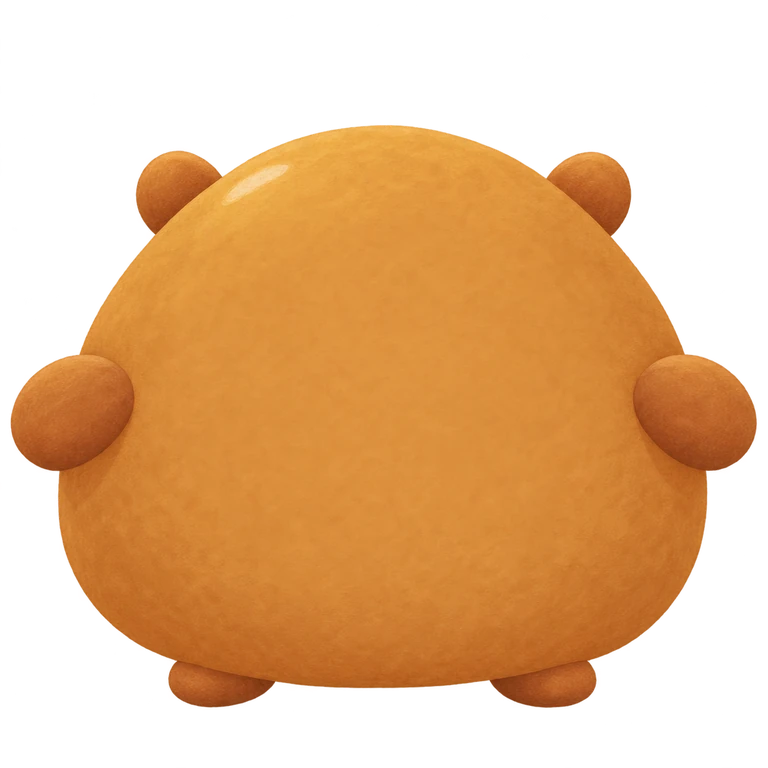
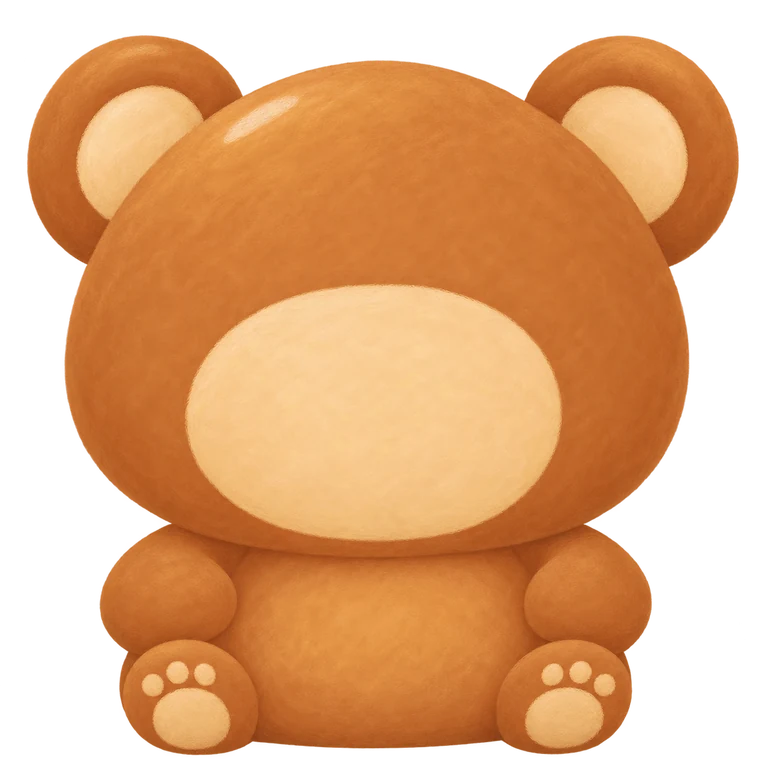
Make feeding direct and cycle three distinct friends in order

diff --git a/src/mogumogu-tomodachi/model.ts b/src/mogumogu-tomodachi/model.ts
@@ -1,6 +1,6 @@
 export type Food = 'strawberry' | 'banana' | 'carrot';
 export const foods: Food[] = ['strawberry', 'banana', 'carrot'];
-export const friends = ['monster', 'ghost', 'bear'] as const;
+export const friends = ['monster', 'bear', 'ghost'] as const;
 export type Phase =
   'idle' | 'offering' | 'chewing' | 'swallowing' | 'happy' | 'changing';
 export const durations = {
@@ -12,18 +12,15 @@ export const durations = {
 };
 const phases: Phase[] = ['offering', 'chewing', 'swallowing', 'happy', 'idle'];
 
-/** One meal and at most one replaceable next bite. Time advances only while visible. */
+/** One meal at a time. Unswallowed food is restored after interruption. */
 export class Friend {
-  private random: () => number;
   constructor(random: () => number = Math.random) {
-    this.random = random;
-    this.character = Math.floor(this.random() * friends.length);
+    this.character = Math.floor(random() * friends.length);
   }
   character: number;
   available = new Set<Food>(foods);
   phase: Phase = 'idle';
   food: Food = 'strawberry';
-  next: Food | null = null;
   elapsed = 0;
   reaction = 0;
   meals = 0;
@@ -34,22 +31,14 @@ export class Friend {
     this.touchRemaining = 520;
   }
   offer(food: Food) {
-    if (!this.available.has(food) || this.phase === 'changing') return;
-    if (this.phase !== 'idle' && this.food === food) return;
-    if (this.phase !== 'idle') {
-      this.next = food;
-      return;
-    }
+    if (!this.available.has(food) || this.phase !== 'idle') return;
     this.food = food;
     this.phase = 'offering';
     this.elapsed = 0;
   }
   private changeFriend() {
-    this.character =
-      (this.character + 1 + Math.floor(this.random() * (friends.length - 1))) %
-      friends.length;
+    this.character = (this.character + 1) % friends.length;
     this.available = new Set(foods);
-    this.next = null;
     this.phase = 'idle';
     this.elapsed = 0;
   }
@@ -68,19 +57,13 @@ export class Friend {
     }
     this.phase = phases[phases.indexOf(this.phase) + 1]!;
     if (this.phase === 'happy') {
-      // Commit a bite only after swallowing. A cancelled offering is still on the table.
+      // Commit a bite only after swallowing. An interrupted bite returns to the table until this point.
       this.available.delete(this.food);
       this.reaction = this.meals++ % 2;
     }
     if (this.phase === 'idle' && this.available.size === 0) {
       this.phase = 'changing';
-      this.next = null;
       return;
-    }
-    if (this.phase === 'idle' && this.next) {
-      const food = this.next;
-      this.next = null;
-      this.offer(food);
     }
   }
   reset() {
@@ -88,7 +71,6 @@ export class Friend {
     if (this.available.size === 0) this.changeFriend();
     this.touchRemaining = 0;
     this.phase = 'idle';
-    this.next = null;
     this.elapsed = 0;
   }
 }

diff --git a/src/mogumogu-tomodachi/app.ts b/src/mogumogu-tomodachi/app.ts
@@ -125,6 +125,9 @@ function render() {
     const food = button.dataset.food as Food;
     const eaten = !friend.available.has(food);
     button.dataset.eaten = String(eaten);
+    button.dataset.away = String(
+      eaten || (friend.phase !== 'idle' && friend.food === food),
+    );
     // Keep the focused native button in the tab order when its food disappears.
     button.setAttribute(
       'aria-disabled',
@@ -139,7 +142,6 @@ function render() {
       'aria-label',
       eaten ? `${names[food]}は たべたよ` : `${names[food]}を あげる`,
     );
-    button.classList.toggle('next', button.dataset.food === friend.next);
   }
   const phaseKey = `${friend.phase}:${friend.food}:${friend.character}`;
   if (phaseKey !== previous) {
@@ -161,6 +163,7 @@ function render() {
   const p = Math.min(1, friend.elapsed / 650);
   const source = buttons
     .find((button) => button.dataset.food === friend.food)!
+    .querySelector('img')!
     .getBoundingClientRect();
   const target = artwork.getBoundingClientRect();
   const start = {
@@ -174,7 +177,7 @@ function render() {
   // Food crosses the lip at 72%; thereafter it is rendered INSIDE the mouth clip.
   const travel = Math.min(1, p / 0.72);
   const eased = 1 - Math.pow(1 - travel, 2);
-  const size = target.width * 0.176;
+  const size = source.width + (target.width * 0.176 - source.width) * eased;
   flying.style.width = `${size}px`;
   flying.style.left = `${start.x + (end.x - start.x) * eased}px`;
   flying.style.top = `${start.y + (end.y - start.y) * eased - (reduced.matches ? 0 : Math.sin(travel * Math.PI) * 65)}px`;
@@ -218,17 +221,20 @@ for (const button of buttons) {
   button.querySelector('img')!.src = assets[food];
   button.addEventListener('click', () => {
     if (button.getAttribute('aria-disabled') === 'true') return;
-    button.getAnimations().forEach((animation) => animation.cancel());
-    button.animate(
-      reduced.matches
-        ? [{ opacity: 0.65 }, { opacity: 1 }]
-        : [
-            { transform: 'scale(1)' },
-            { transform: 'translateY(-12px) scale(1.14)' },
-            { transform: 'scale(1)' },
-          ],
-      { duration: 300 },
-    );
+    if (friend.phase !== 'idle') {
+      button.getAnimations().forEach((animation) => animation.cancel());
+      button.animate(
+        reduced.matches
+          ? [{ opacity: 0.65 }, { opacity: 1 }]
+          : [
+              { transform: 'scale(1)' },
+              { transform: 'translateY(-12px) scale(1.14)' },
+              { transform: 'scale(1)' },
+            ],
+        { duration: 300 },
+      );
+      return;
+    }
     friend.offer(food);
     render();
     if (!frame) frame = requestAnimationFrame(tick);

diff --git a/src/mogumogu-tomodachi/style.css b/src/mogumogu-tomodachi/style.css
@@ -171,8 +171,8 @@ body {
 }
 #foods button {
   position: relative;
-  width: clamp(80px, 25vw, 148px);
-  height: clamp(80px, 25vw, 148px);
+  width: clamp(80px, min(25vw, 24dvh), 240px);
+  height: clamp(80px, min(25vw, 24dvh), 240px);
   border: 0;
   border-radius: 50%;
   background: transparent;
@@ -186,17 +186,6 @@ body {
   height: 100%;
   object-fit: contain;
   pointer-events: none;
-}
-#foods .next {
-  filter: drop-shadow(0 0 8px #f29932);
-}
-#foods .next::after {
-  content: '♥';
-  color: #df6550;
-  position: absolute;
-  right: -3px;
-  top: -12px;
-  font-size: 28px;
 }
 button:focus-visible,
 a:focus-visible {
@@ -287,7 +276,7 @@ a:focus-visible {
   height: 100%;
   pointer-events: none;
 }
-#foods [data-eaten='true'] img {
+#foods [data-away='true'] img {
   visibility: hidden;
 }
 #foods [aria-disabled='true'] {
@@ -330,4 +319,19 @@ a:focus-visible {
 }
 #friend[data-art-state='ready'] .friend-message {
   display: none;
+}
+
+.bear-nose {
+  display: none;
+}
+#friend[data-character='bear'] .bear-nose {
+  display: block;
+}
+#friend[data-character='bear'] .eyes-open,
+#friend[data-character='bear'] .eyes-happy {
+  transform: translateY(-40px);
+}
+
+#friend[data-character='bear'] .friend-art {
+  inset: 0;
 }

diff --git a/src/mogumogu-tomodachi/index.html b/src/mogumogu-tomodachi/index.html
@@ -110,6 +110,11 @@
               ry="18"
               fill="#ff9b9c"
             />
+            <path
+              class="bear-nose"
+              d="M238 214Q250 209 262 214Q265 218 250 226Q235 218 238 214"
+              fill="#57382b"
+            />
             <g class="mouth-open">
               <ellipse cx="250" cy="290" rx="83" ry="62" fill="#713b36" />
               <g clip-path="url(#mouth-clip)">

diff --git a/src/mogumogu-tomodachi/README.md b/src/mogumogu-tomodachi/README.md
@@ -3,10 +3,10 @@
 怪獣・おばけ・くまと遊びます。いちご・バナナ・にんじんをタップすると、おともだちの口へ飛びます。口を閉じて頬を交互に膨らませ、飲み込んでから、食べ物ごとの笑顔と動きを返します。空腹・好き嫌い・得点・悲しい待機はありません。
 
 - 全画面の遊びと共通ホームボタン。食べ物は56px以上のネイティブボタンで、キーボードでも選べます。
-- おともだちの広い本体をタップ（Enter・Spaceでも操作）すると、目を細めて短く微笑み、待機中は身体がやわらかく縮む・ぴょこっと跳ねる・左右に揺れる3種類の反応を順番に返します。食事中は目元だけで応じ、食事と次のひとくちは続きます。反応は最新の1回だけで、食べ物はすぐ受け付けます。
-- 連打には食べ物の弾みをすぐ返し、次のひとくちは最新の1個だけ保持します。食べ物の周りの光とハートが次の選択を示します。予約の変更では食べ物は消費しません。
-- 食べ物は飲み込み終わると台からなくなります。3種類を食べ終えると、満足したあと次のおともだちへ交代し、食べ物を補充します。最初の友達はランダムで、交代時には直前の友達を選びません。
-- 非表示・フォーカス喪失・離脱・リサイズでは途中の食事と次の選択を破棄し、笑顔に戻ります。飲み込み前の食べ物は台に残し、飲み込み済みの食べ物は戻しません。最後のひとくちの満足・交代中の中断では次の友達と補充を確定します。待機中はRAFを停止します。
+- おともだちの広い本体をタップ（Enter・Spaceでも操作）すると、目を細めて短く微笑み、待機中は身体がやわらかく縮む・ぴょこっと跳ねる・左右に揺れる3種類の反応を順番に返します。食事中は目元だけで応じ、食事は続きます。反応は最新の1回だけです。
+- 食事中に別の食べ物をタップすると弾む反応だけを返します。予約や自動給餌はありません。
+- 選んだ食べ物はその瞬間に台から離れて口へ飛び、飲み込み終わると消費を確定します。3種類を食べ終えると、満足したあと次のおともだちへ交代し、食べ物を補充します。最初の友達はランダムで、以後は かいじゅう→くま→おばけ→かいじゅう の固定順です。
+- 非表示・フォーカス喪失・離脱・リサイズでは途中の食事を中断し、笑顔に戻ります。飲み込み前の食べ物は台に戻し、飲み込み済みの食べ物は戻しません。最後のひとくちの満足・交代中の中断では次の友達と補充を確定します。待機中はRAFを停止します。
 - 3体の本体を先読みしてデコードし、準備済みの画像要素・顔・ラベルを同時に表示します。初回・交代の準備中は顔だけを表示せず、食べ物は消費しません。画像が失敗した場合は読み込めた友達を使い、すべて失敗した場合は本体ボタンの「もういちど あう」で再試行できます。
 - 身体画像・食べ物画像と顔のSVGを分離。口に入った食べ物は口形状でクリップし、頬・目・口を別々に制御します。顔の基準座標は500×500です。
 - 動きを減らす設定では飛行の弧や身体の跳躍を省き、口と表情による反応を残します。音声や設定UIはありません。

diff --git a/source-assets/mogumogu-tomodachi/bear-v3/README.md b/source-assets/mogumogu-tomodachi/bear-v3/README.md
@@ -1,0 +1,23 @@
+# もぐもぐともだち｜クマ素材 v3
+
+2026-11-09。ユーザーの「茶色い恐竜ではなく、もっとクマらしく」という依頼に基づく画像生成素材。旧版の色調と柔らかい絵本調の質感を参考に、大きな丸耳と内耳、頭と胴の区別、丸い手足と肉球、淡色の口周りでクマとして読める輪郭に変更した。
+
+## ファイル
+- source/bear-body.png: 生成原本、1254×1254 RGBA。
+- web/bear-body.webp: 配信用768×768 RGBA、62,698 bytes。PNG原本から縮小・エンコードのみ。透明背景を保持。
+- preview.png: 500px / 160px の見本。顔は意図的に描かれていない。
+- validation.json: 再読込とアルファ検査。
+
+## 組込み
+画像には目・鼻・口・眉を描かず、表情アニメーションは既存SVGで重ねる。
+このクマは明確な頭部とマズルがあるため、500×500の既存キャラ座標系ではクマのみ目中心を (200,165), (300,165) に置くと口周りの上に収まる。口中心 (250,280) は維持可能。鼻はマズル上部の (250,222) 付近に小さな暗褐色の丸みある三角形/楕円を追加すると、さらに熊らしく読める。鼻は口の最大変形に干渉しない大きさとし、実装担当が表情全種類で確認すること。
+これは配置提案であり、実画面の顔・口アニメ確認は組込み側で実施する。画像本体の下部は机で隠れても、大きな丸耳と淡い口周りが残り熊と読める設計。足の肉球のために机位置を変更する必要はない。
+
+## 検査
+768px WebPを再読込しRGBA・alpha 0〜255を確認。500px/160pxの画像を視覚確認し、丸耳と内耳、マズル、短い腕が保たれ、旧版よりクマらしく見える。実機・ブラウザ組込み確認は本素材制作では未実施。
+
+## 出典
+OpenAI組込み画像生成ツールにより当タスク向けに制作。第三者のキャラクター/ロゴ/フォント/外部素材は使用していない。既存の生成画像 bear-body.png を画風参照とした。外部ライセンスに基づく表示は追加していない。
+
+## 生成指示の要旨
+Edit brown body style reference into unmistakable teddy bear. Large round ears with cream inner ears, broad round head, short arms, plump small body and rounded paws. Warm soft gouache texture, blank cream muzzle patch. No eyes, nose, mouth or brows because runtime overlays animate them. Transparent background; no setting, text or outside shadow. Front view square sprite.

diff --git a/source-assets/mogumogu-tomodachi/README.md b/source-assets/mogumogu-tomodachi/README.md
@@ -9,3 +9,7 @@
 ## 2026-11-08 くま・おばけ追加
 
 [素材パック](https://drive.google.com/file/d/1p217zwyC8Zg6LMsYypuFV60Eo5-nf2Iz/view)を実装環境へダウンロードし、透過WebP2枚と確認画像を視認。原本PNG・出典・生成指示・変換手順・SHA-256・確認画像を [friends-v2](friends-v2/README.md) に保持。配信用768角WebP（くま53,060 bytes、おばけ54,978 bytes）は再エンコードせずsrcへ同梱。共通500角SVGの目・頬・口を重ね、口のクリップと食事の飛行座標を維持。
+
+## 2026-11-09 くまの輪郭改善
+
+[新くま素材パック](https://drive.google.com/file/d/1Sk6uRlY0sk3VM2Xe-Z-k1QwclJ8YRjb-/view)の実物WebPと確認画像を視認し採用。大きな丸耳・内耳・頭と胴の区別・淡色マズルを持つテディベア。原本と生成指示要旨、検証記録は [bear-v3](bear-v3/README.md)。768角透過WebP 62,698 bytesを再変換せず配信。旧原本は保持。くまだけSVGの目を40座標上へ移動し、マズル上部に鼻を追加。丸耳が収まるよう、くまの画像と顔の共通枠を他2体より少し小さく表示。共通の口・クリップ・給餌座標を維持。
